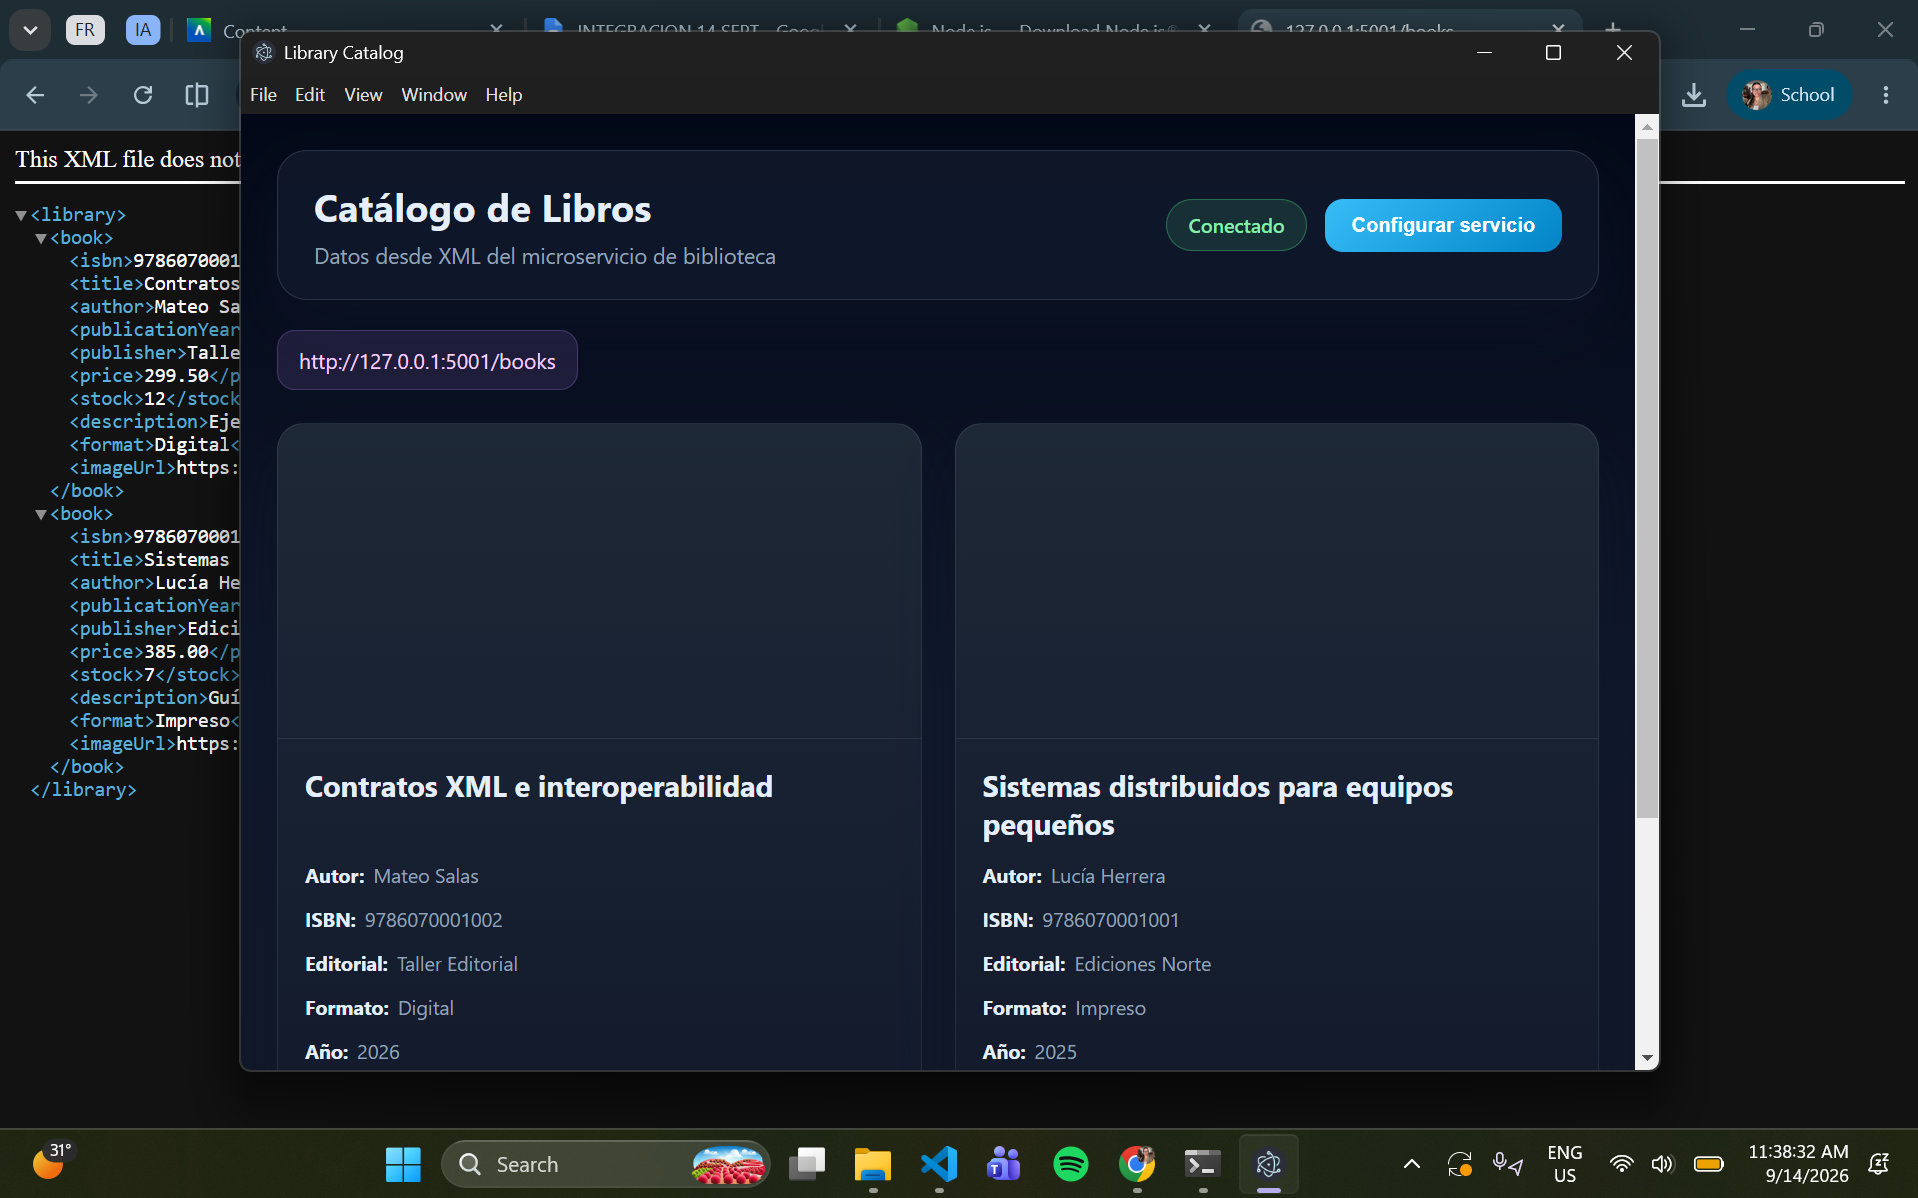
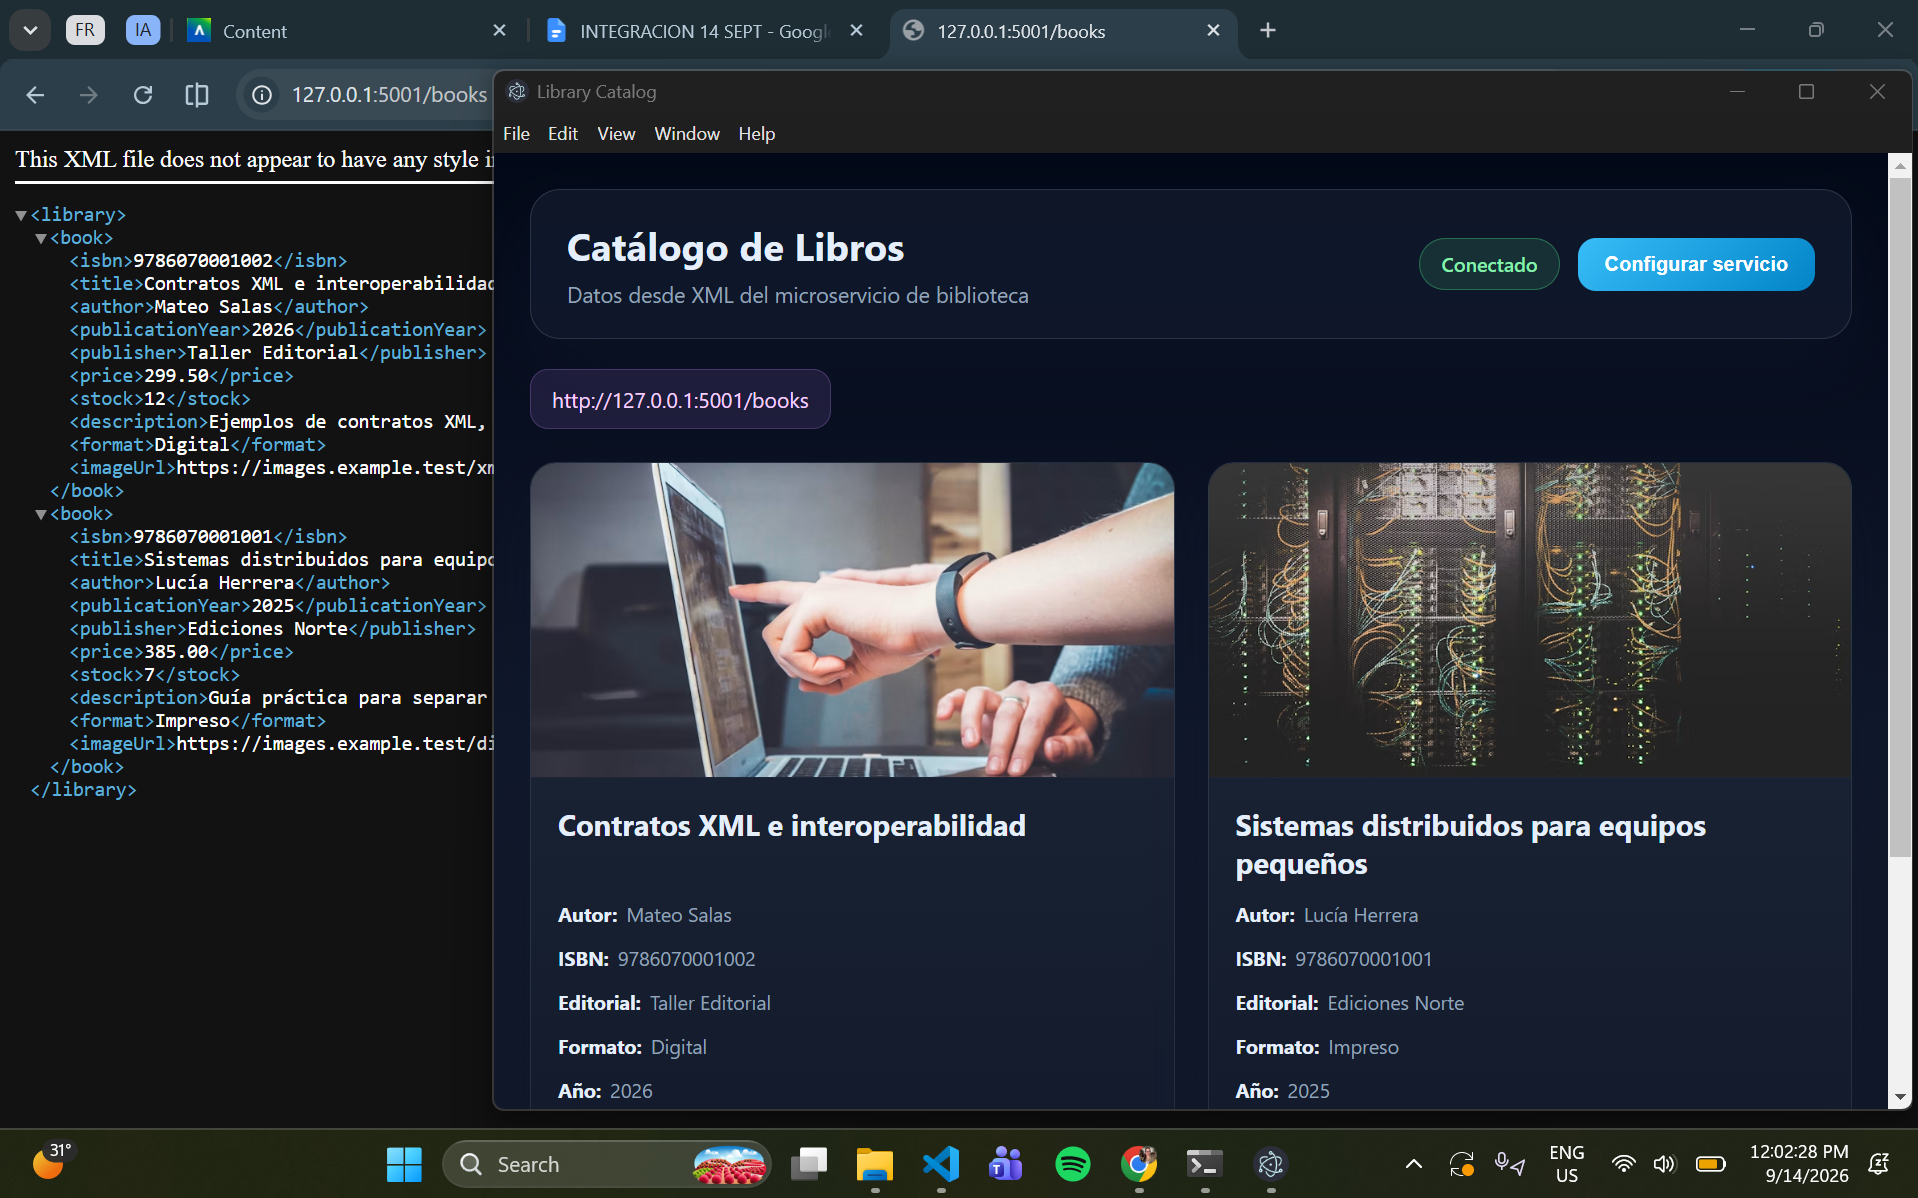
ELECTRON APP

diff --git a/proyecto_bien/apps/Electron-app/index.html b/proyecto_bien/apps/Electron-app/index.html
@@ -59,6 +59,11 @@
         endpoint: '/books',
       };
 
+      const bookImageUrls = {
+        '9786070001001': 'https://images.unsplash.com/photo-1558494949-ef010cbdcc31?auto=format&fit=crop&w=800&q=85',
+        '9786070001002': 'https://images.unsplash.com/photo-1516321318423-f06f85e504b3?auto=format&fit=crop&w=800&q=85',
+      };
+
       let allBooks = [];
       let currentPage = 1;
 
@@ -110,6 +115,10 @@
         return String(value).trim();
       }
 
+      function getBookImageUrl(book) {
+        return bookImageUrls[book.isbn] || book.imageUrl || 'https://images.unsplash.com/photo-1512820790803-83ca734da794?auto=format&fit=crop&w=800&q=85';
+      }
+
       function parseBookItem(bookNode) {
         const getField = (...names) => {
           for (const name of names) {
@@ -138,7 +147,7 @@
           stock: stock || '0',
           publisher: publisher || 'Editorial sin datos',
           description: description || 'Sin descripción disponible para este título.',
-          imageUrl: imageUrl || 'https://images.unsplash.com/photo-1512820790803-83ca734da794?auto=format&fit=crop&w=800&q=80',
+          imageUrl,
           publicationYear: publicationYear || 'N/D',
           format: format || 'Formato no definido',
         };
@@ -233,7 +242,12 @@
 
         grid.innerHTML = pageBooks.map((book) => `
           <article class="card">
-            <div class="card-image" style="background-image: url('${book.imageUrl}');"></div>
+            <img
+              class="card-image"
+              src="${getBookImageUrl(book)}"
+              alt="Portada de ${book.title}"
+              onerror="this.onerror=null;this.src='https://placehold.co/800x500/1f2937/e5eefb?text=Portada+no+disponible';"
+            />
             <div class="card-body">
               <h2 class="book-title">${book.title}</h2>
               <div class="meta"><strong>Autor:</strong> ${book.author}</div>

diff --git a/proyecto_bien/apps/Electron-app/styles.css b/proyecto_bien/apps/Electron-app/styles.css
@@ -148,9 +148,11 @@ body {
 }
 
 .card-image {
+  display: block;
+  width: 100%;
   height: 210px;
-  background-size: cover;
-  background-position: center;
+  object-fit: cover;
+  background: #0b1120;
   border-bottom: 1px solid rgba(148, 163, 184, 0.15);
 }
 
